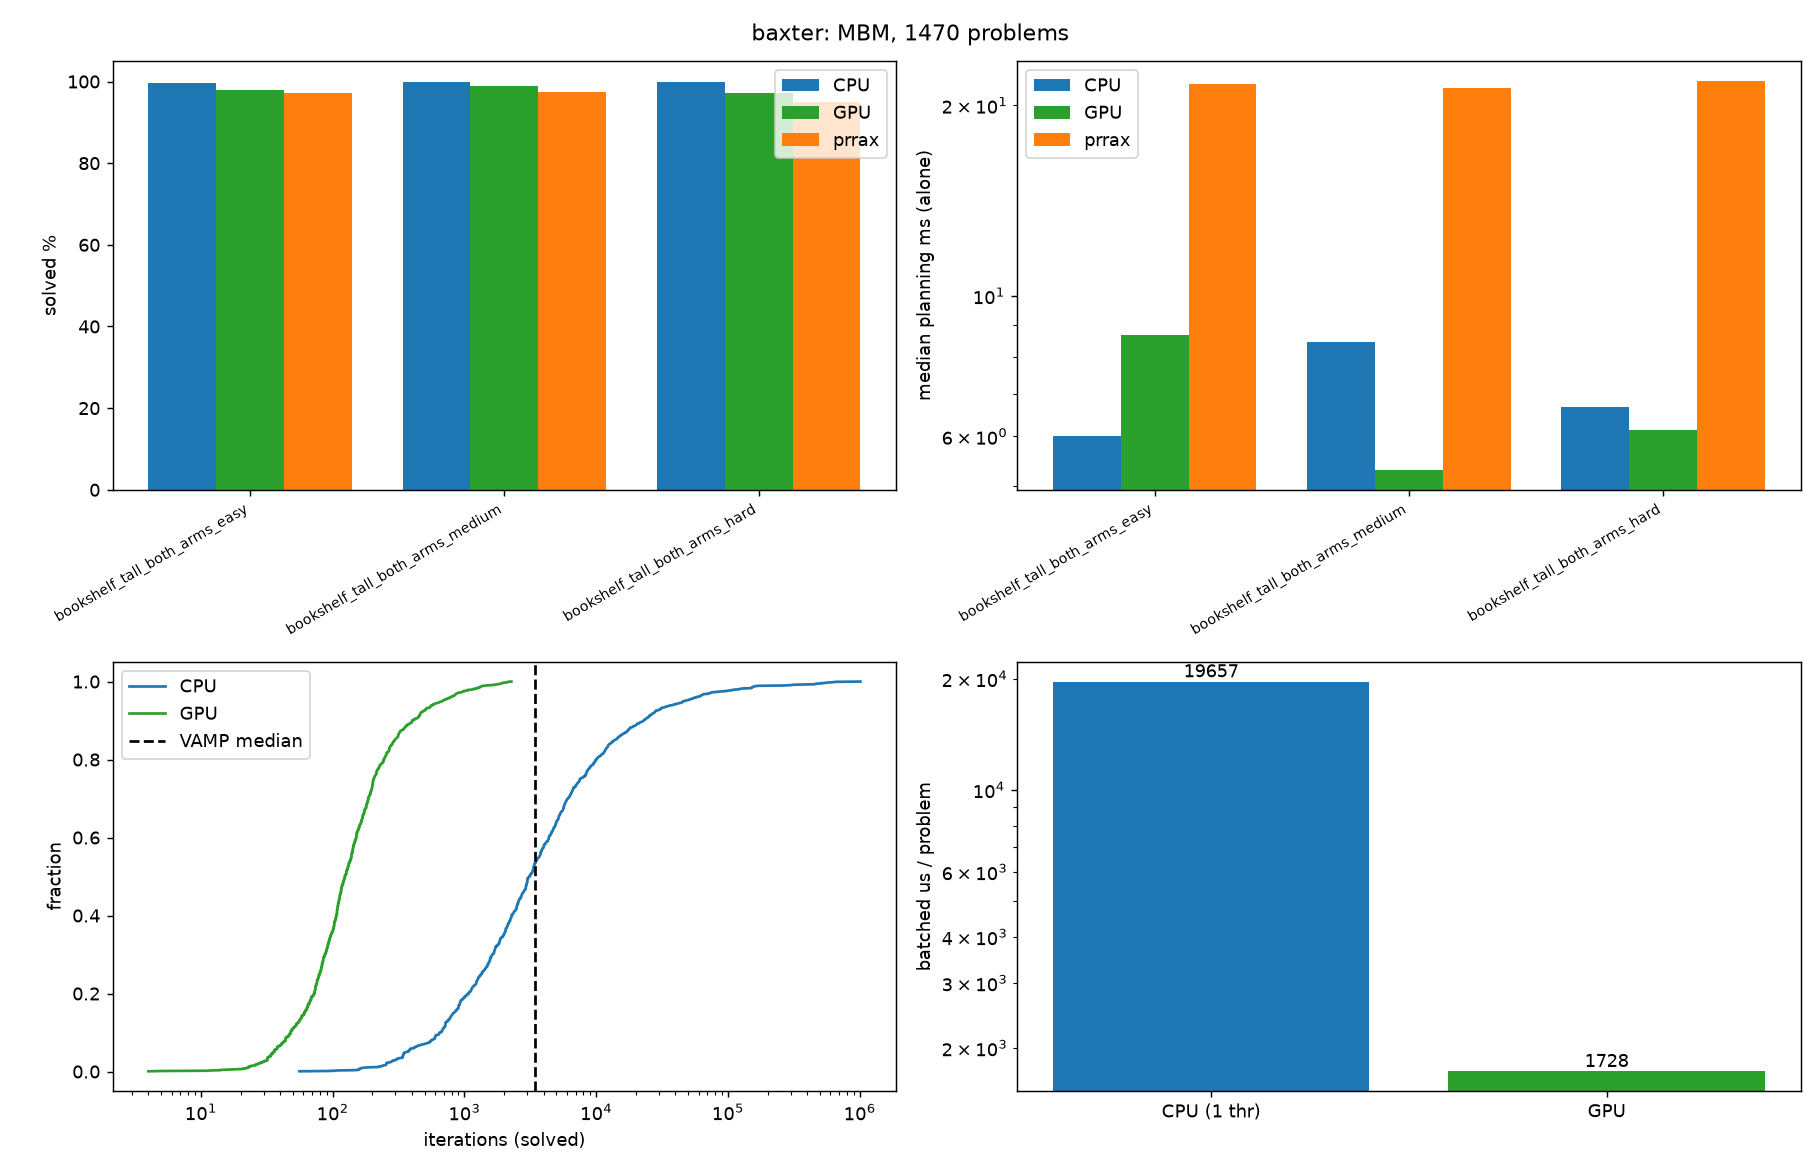
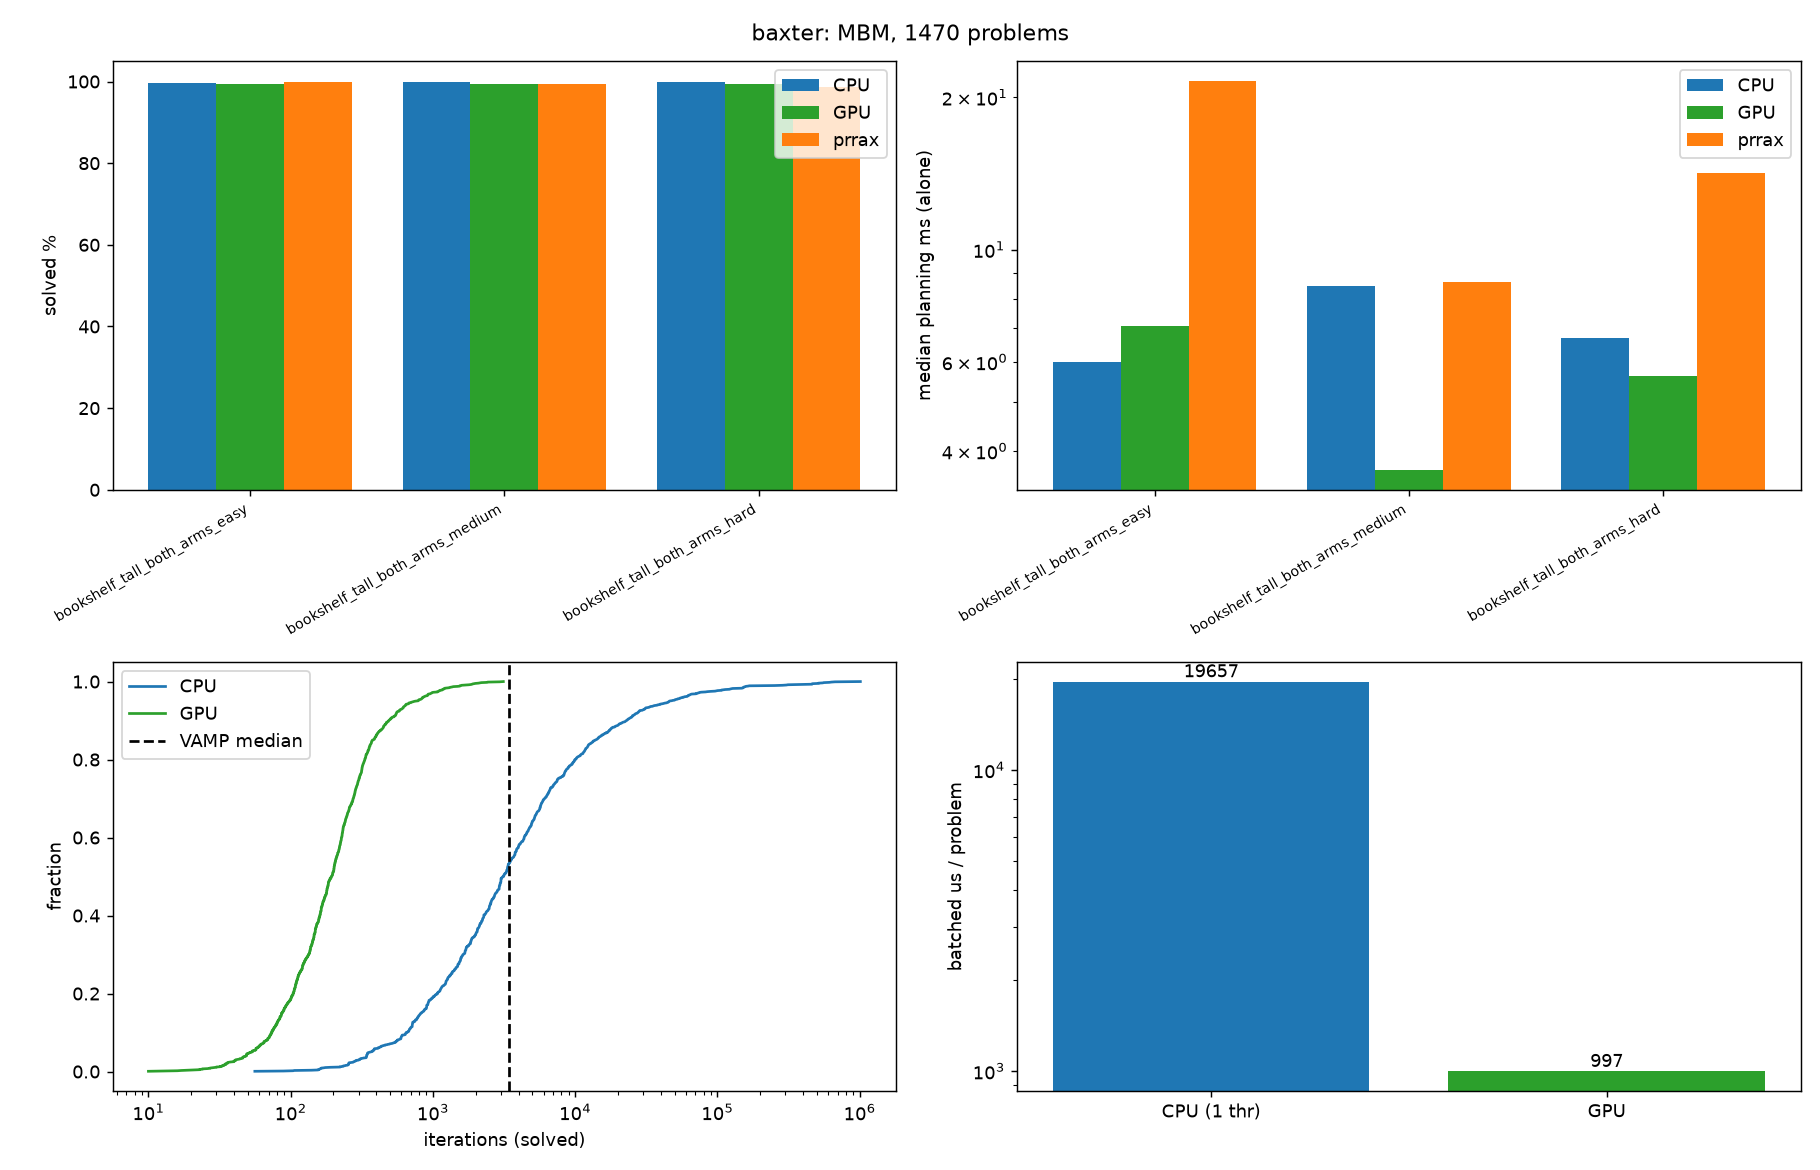
improve baseline for correctness

diff --git a/ik_benchmark/solve_prrax.py b/ik_benchmark/solve_prrax.py
@@ -55,6 +55,9 @@ def main() -> None:
     ap.add_argument("--balance-mode", type=int, default=2)
     ap.add_argument("--tree-ratio", type=float, default=1.0)
     ap.add_argument("--no-dynamic-domain", action="store_true")
+    ap.add_argument("--collision-checker", default="binary",
+                    choices=["binary", "binary_coarse", "binary_coarse_coop"],
+                    help="binary_coarse = bounding-sphere pre-pass before the fine spheres")
     args = ap.parse_args()
     robot = ROBOT[args.chain]
 
@@ -97,7 +100,7 @@ def main() -> None:
 
     kw = dict(max_iterations=args.max_iterations, step_size=STEP[robot], num_new_samples=args.num_new_samples,
               granularity=args.granularity, max_nodes=args.max_nodes, balance_mode=args.balance_mode,
-              tree_ratio=args.tree_ratio, dynamic_domain=not args.no_dynamic_domain, min_vals=lo, max_vals=hi)
+              tree_ratio=args.tree_ratio, collision_checker=args.collision_checker, dynamic_domain=not args.no_dynamic_domain, min_vals=lo, max_vals=hi)
 
     results, batch_ms = [None] * P, 0.0
     for c0 in range(0, P, args.chunk):
